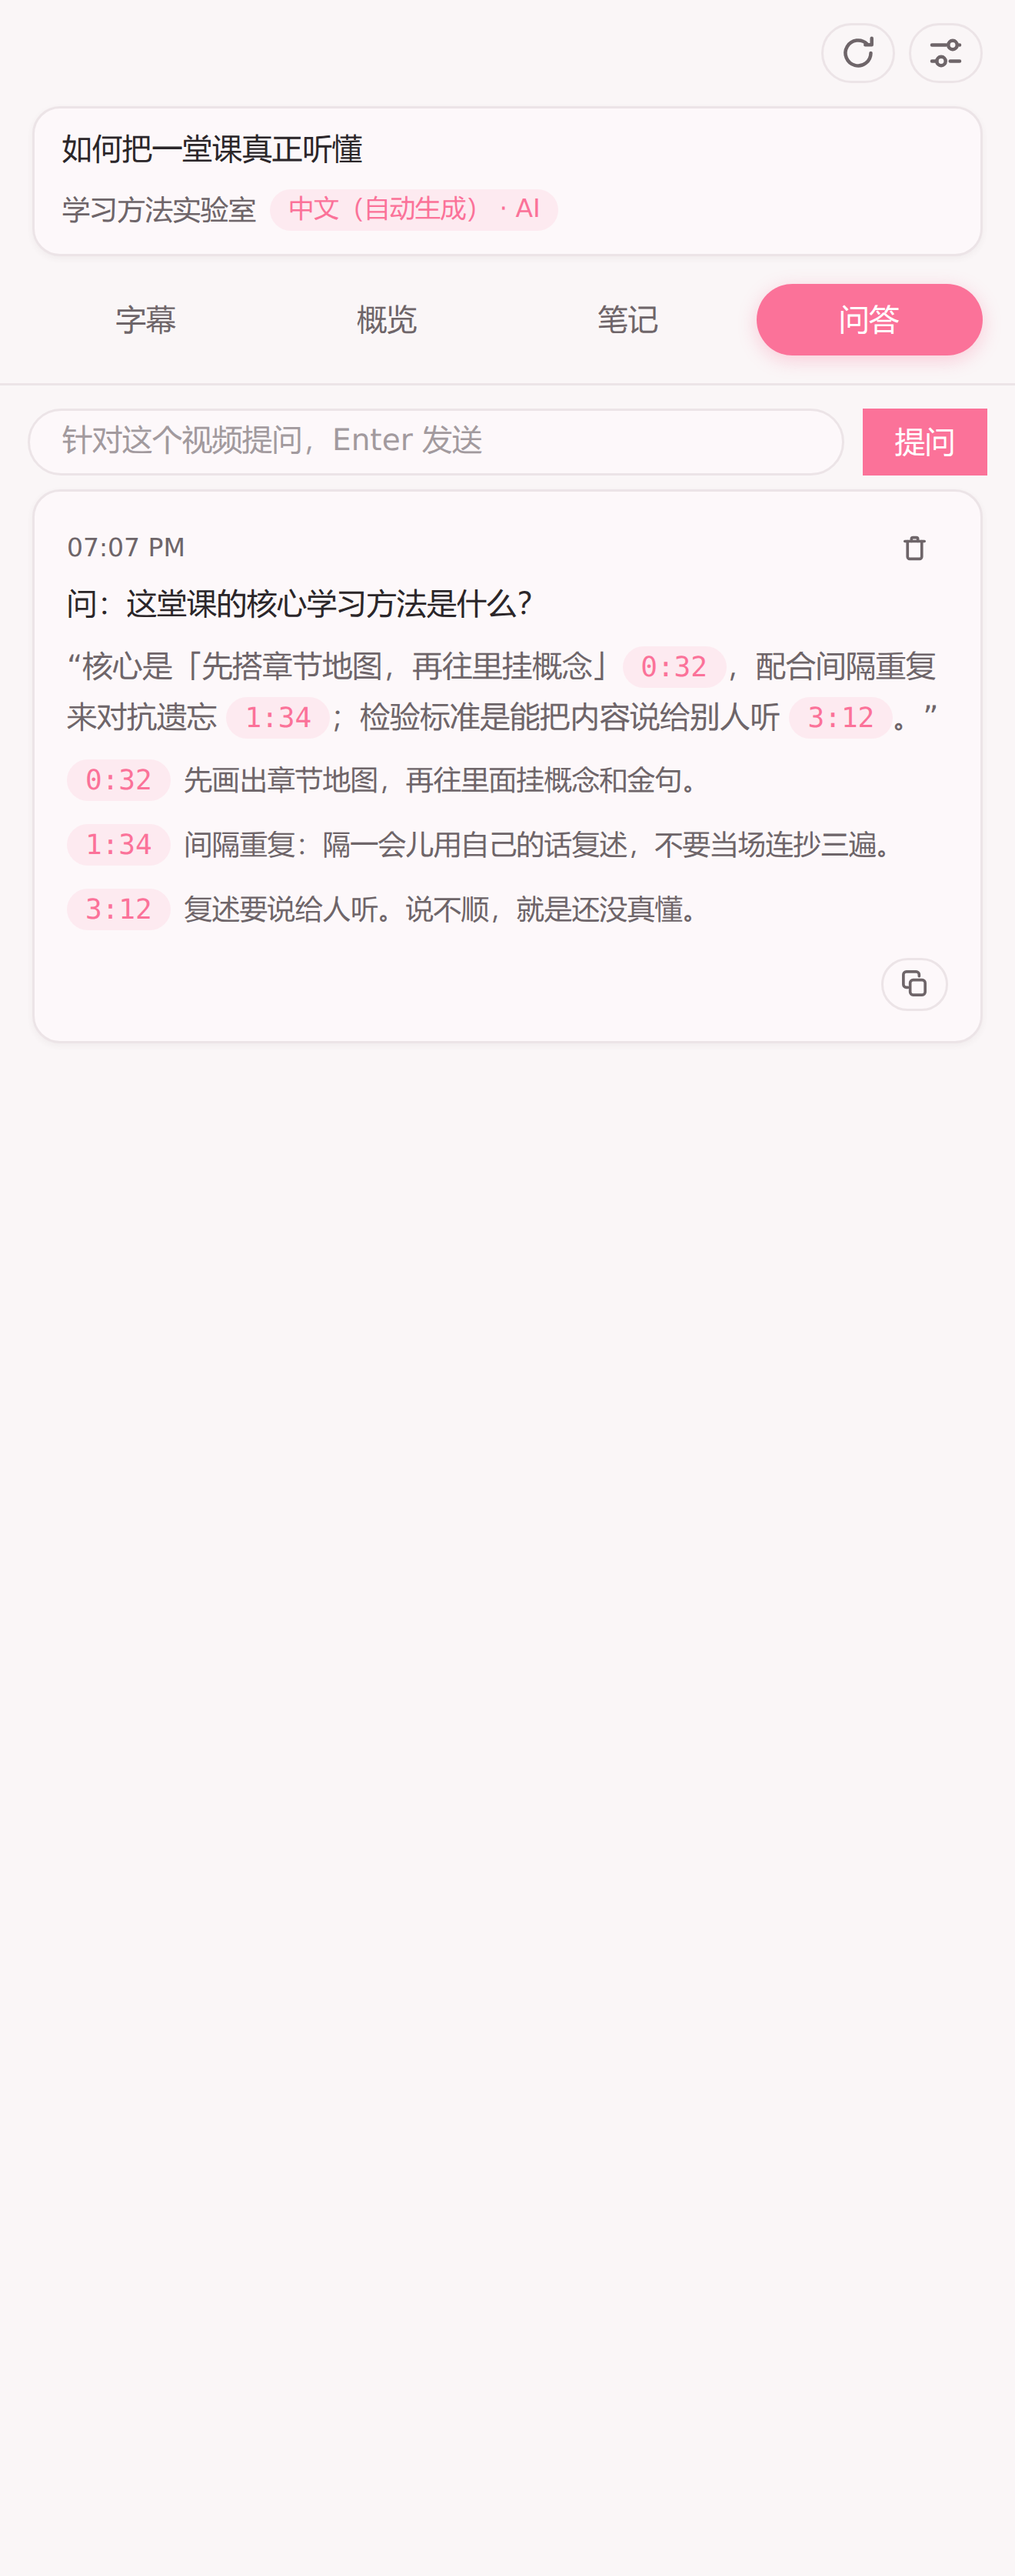
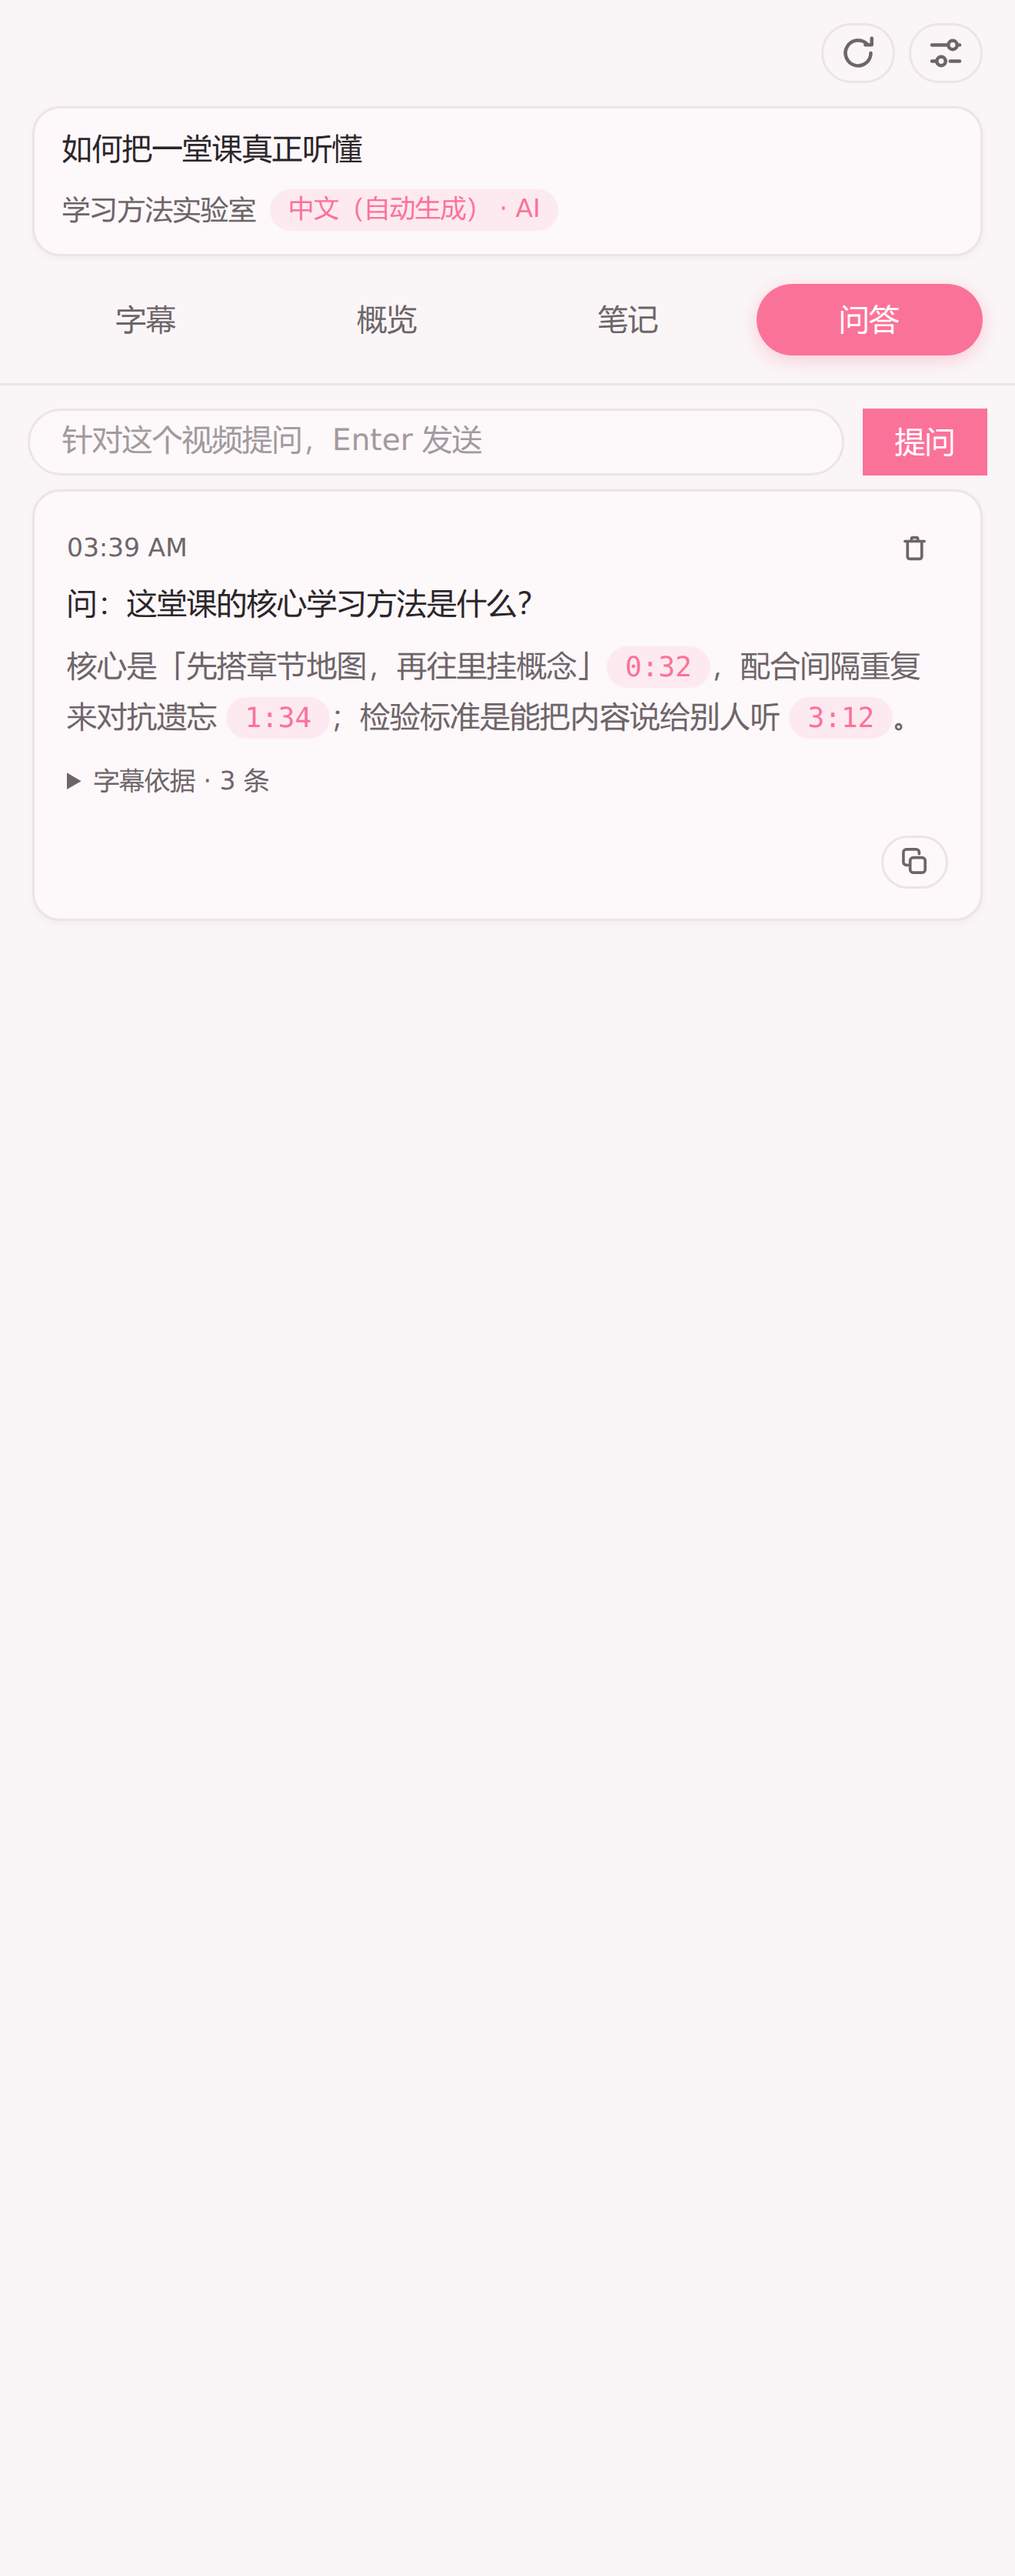
问答引号根因在卡片 CSS 装饰，拆除模型侧剥引号

diff --git a/lib/qa-service.js b/lib/qa-service.js
@@ -183,24 +183,19 @@ var BILI_QA_SERVICE = (() => {
         throwIfTaskCanceled(signal);
 
         const parsed = AI.parseLooseJson(raw);
-        // 模型偶尔会把整个回答当引语用各种引号包住，统一剥掉。
-        let answer = CITATIONS.stripWrappingQuotes(
-          typeof parsed?.answer === "string" ? parsed.answer : "",
-        );
+        const rawAnswer = typeof parsed?.answer === "string" ? parsed.answer : "";
 
         // 依据原句由本地从字幕提取：模型只负责在正文里标 [分:秒]，
         // 引用内容想编造都没有载体，也不再花输出 token 摘录原句。
         const citations = CITATIONS.buildCitationsFromAnswer(
-          answer,
+          rawAnswer,
           transcript.transcript,
           context.timeRange,
         );
-        if (!answer) {
-          answer = FALLBACK_ANSWER;
-        } else if (!citations.length) {
-          // 正文里没有任何落在字幕范围内的引用：视为没有依据。
-          answer = FALLBACK_ANSWER;
-        }
+        // 空回答或没有任何落在字幕范围内的引用：视为没有依据，
+        // 整条替换为兜底文案——宁可少答，不可编造。
+        const answer =
+          rawAnswer && citations.length ? rawAnswer : FALLBACK_ANSWER;
 
         // clickable 一并入库：历史卡片渲染时才知道哪些时间戳可点。
         const entry = {

diff --git a/lib/qa-citations.js b/lib/qa-citations.js
@@ -59,19 +59,7 @@ var BILI_QA_CITATIONS = (() => {
     return segments;
   }
 
-  // 成对包裹引号的穷举码位集，覆盖：弯引号 “”‘’、直引号 " '、
-  // 低引号 „‟、角引号 «»‹›、直角引号「」『』、书名号《》〈〉、全角＂＇。
-  // 不能用 \p{Ps}/\p{Pe} 类别通配——那两类混着 ] ） 等括号，
-  // 会误剥回答里的 [M:SS] 时间戳（踩过）。
-  const QUOTE_EDGE =
-    /^["'\u201C\u201D\u2018\u2019\u201E\u201F\u00AB\u00BB\u2039\u203A\u300C\u300D\u300E\u300F\u300A\u300B\u3008\u3009\uFF02\uFF07\u301D\u301E\u3000\s]+|["'\u201C\u201D\u2018\u2019\u201E\u201F\u00AB\u00BB\u2039\u203A\u300C\u300D\u300E\u300F\u300A\u300B\u3008\u3009\uFF02\uFF07\u301D\u301E\u3000\s]+$/gu;
-
-  /** 剥掉文本首尾的成对包裹引号与空白。保存与渲染两处共用。 */
-  function stripWrappingQuotes(text) {
-    return String(text || "").replace(QUOTE_EDGE, "");
-  }
-
-  function isWithin(seconds, range) {
+    function isWithin(seconds, range) {
     if (!range) return true;
     return (
       Number.isFinite(seconds) &&
@@ -133,7 +121,6 @@ var BILI_QA_CITATIONS = (() => {
     secondsToTimestamp,
     extractTimestamps,
     splitAnswerByTimestamps,
-    stripWrappingQuotes,
     buildCitationsFromAnswer,
     clickableTimestamps,
   };

diff --git a/tests/qa-service.test.js b/tests/qa-service.test.js
@@ -34,7 +34,7 @@ function makeService({ reply } = {}) {
   });
 }
 
-test("剥掉模型包在回答外面的成对引号", async () => {
+test("回答原样透传，不做二次加工", async () => {
   let captured = false;
   const idb = createMemoryIndexedDb();
   const service = QA_SERVICE.createQaService({
@@ -65,7 +65,11 @@ test("剥掉模型包在回答外面的成对引号", async () => {
 
   const result = await service.askQuestion({ bvid: "BV1xx411c7mD", page: 1, question: "问题" });
   assert.equal(result.success, true, JSON.stringify(result));
-  assert.equal(result.entry.answer, "结论 [0:02]。", "外层引号应被剥掉");
+  assert.equal(
+    result.entry.answer,
+    "  “结论 [0:02]。”  ",
+    "模型输出原样保存，渲染层的样式归渲染层管",
+  );
   assert.deepEqual(result.entry.citations, [
     { startSeconds: 2, quote: "字幕句子" },
   ], "依据由本地从字幕提取");

diff --git a/tests/qa-citations.test.js b/tests/qa-citations.test.js
@@ -96,25 +96,3 @@ test("splitAnswerByTimestamps：单点、区间、混合与无时间戳", () => 
     [60, 90],
   );
 });
-
-test("stripWrappingQuotes 覆盖全部常见引号码位", () => {
-  const pairs = [
-    ["\u0022", "\u0022"],
-    ["\u201C", "\u201D"],
-    ["\uFF02", "\uFF02"],
-    ["\u201E", "\u201E"],
-    ["\u300C", "\u300D"],
-    ["\u300A", "\u300B"],
-    ["\u201C", "\u0022"],
-  ];
-  for (const [left, right] of pairs) {
-    const stripped = C.stripWrappingQuotes(
-      `${left}回答正文，含 [0:02]。${right}`,
-    );
-    assert.equal(
-      stripped,
-      "回答正文，含 [0:02]。",
-      `${left}…${right} 应被剥掉`,
-    );
-  }
-});

diff --git a/sidepanel.js b/sidepanel.js
@@ -1547,10 +1547,8 @@ function hideQaHint() {
  */
 function appendAnswerText(node, answer, clickableSeconds) {
   const clickable = new Set(clickableSeconds || []);
-  // 渲染时再兜一次：修复前入库的历史回答可能带着成对引号。
-  const clean = BILI_QA_CITATIONS.stripWrappingQuotes(answer);
   node.textContent = "";
-  for (const segment of BILI_QA_CITATIONS.splitAnswerByTimestamps(clean)) {
+  for (const segment of BILI_QA_CITATIONS.splitAnswerByTimestamps(answer)) {
     if (segment.seconds == null) {
       node.append(segment.text);
     } else if (clickable.has(segment.seconds)) {

diff --git a/sidepanel.css b/sidepanel.css
@@ -1169,6 +1169,13 @@ button {
   content: "”";
 }
 
+/* 问答卡片复用 .note 布局但正文是 AI 原创回答，不是字幕摘句，
+   不能继承装饰引号——曾导致剥了模型引号、引号却「还在」的假象 */
+.qa-card .entry-text::before,
+.qa-card .entry-text::after {
+  content: none;
+}
+
 .note-editor {
   margin-top: 8px;
 }
